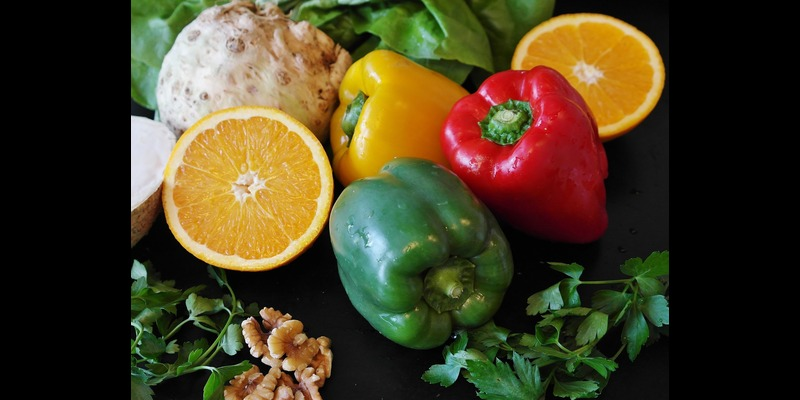
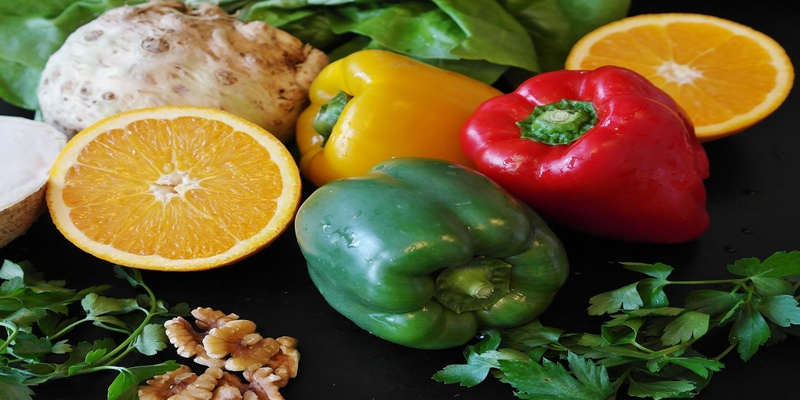
updated style.css and added new version of paprika-4.jpg ,pepper-1.jpg images

diff --git a/css/style.css b/css/style.css
@@ -1,120 +1,120 @@
-*{
-    margin: 0;
-    padding: 0;
-    box-sizing: border-box;
+* {
+  margin: 0;
+  padding: 0;
+  box-sizing: border-box;
 }
 
-body{
-    background-color: rgb(185, 248, 248);
+body {
+  background-color: rgb(185, 248, 248);
 }
 
-#slider{
-    width: 800px;
-    height: 400px;
-    margin: 30px auto;
-    border-radius: 10px;
-    box-shadow: 0 15px 25px -10px rgb(115, 115, 115);
-    background-size: cover;
-    background-position: center;
-    transition: .2s;
-    background-image: url(../images/1.jpg);
-    display: flex;
-    justify-content: center;
-    align-items: center;
-    position: relative;
-    overflow: hidden;
-    margin-top: 100px;
+#slider {
+  width: 800px;
+  height: 400px;
+  margin: 30px auto;
+  border-radius: 10px;
+  box-shadow: 0 15px 25px -10px rgb(115, 115, 115);
+  background-size: cover;
+  background-position: center;
+  transition: 0.2s;
+  background-image: url(../images/1.jpg);
+  display: flex;
+  justify-content: center;
+  align-items: center;
+  position: relative;
+  overflow: hidden;
+  margin-top: 100px;
 }
 
-.arrows{
-    width: 90%;
-    display: flex;
-    justify-content: space-between;
+.arrows {
+  width: 90%;
+  display: flex;
+  justify-content: space-between;
 }
 
-.arrows i{
-    width: 40px;
-    height: 40px;
-    background-color: rgba(0, 0, 0, 0.6);
-    border-radius: 50%;
-    display: flex;
-    justify-content: center;
-    align-items: center;
-    color: #eee;
-    font-size: 25px;
-    transition: .3s;
-    cursor: pointer;
+.arrows i {
+  width: 40px;
+  height: 40px;
+  background-color: rgba(0, 0, 0, 0.6);
+  border-radius: 50%;
+  display: flex;
+  justify-content: center;
+  align-items: center;
+  color: #eee;
+  font-size: 25px;
+  transition: 0.3s;
+  cursor: pointer;
 }
 
-.arrows i:hover{
-    background-color: #000;
+.arrows i:hover {
+  background-color: #000;
 }
 
-#order{
-    position: absolute;
-    top: 0;
-    right: 0;
-    background-color: rgba(0, 0, 0, 0.639);
-    color: #fff;
-    border-bottom-left-radius: 10px;
-    font-size: 22px;
-    padding: 10px 25px;
-    letter-spacing: 1px;
+#order {
+  position: absolute;
+  top: 0;
+  right: 0;
+  background-color: rgba(0, 0, 0, 0.639);
+  color: #fff;
+  border-bottom-left-radius: 10px;
+  font-size: 22px;
+  padding: 10px 25px;
+  letter-spacing: 1px;
 }
 
-#dots{
-    width: 200px;
-    position: absolute;
-    bottom: 20px;
-    left: calc(50% - 100px);
-    list-style: none;
-    display: flex;
-    justify-content: center;
-    column-gap: 20px;
+#dots {
+  width: 200px;
+  position: absolute;
+  bottom: 20px;
+  left: calc(50% - 100px);
+  list-style: none;
+  display: flex;
+  justify-content: center;
+  column-gap: 20px;
 }
 
-#dots li{
-    width: 20px;
-    height: 20px;
-    border-radius: 50%;
-    background-color: rgba(255, 255, 255, 0.68);
-    cursor: pointer;
-    transition: .3s;
+#dots li {
+  width: 20px;
+  height: 20px;
+  border-radius: 50%;
+  background-color: rgba(255, 255, 255, 0.68);
+  cursor: pointer;
+  transition: 0.3s;
 }
 
-#dots li:hover{
-    background-color: #fff;
+#dots li:hover {
+  background-color: #fff;
 }
 
-.activeDot{
-    background-color: #fff !important;
-    transform: scale(1.05) !important;
-    box-shadow: 0 0 5px #fff;
+.activeDot {
+  background-color: #fff !important;
+  transform: scale(1.05) !important;
+  box-shadow: 0 0 5px #fff;
 }
 
 /************************************************************/
 
-#items{
-    width: 800px;
-    margin: 0 auto;
-    display: flex;
-    justify-content: space-between;
+#items {
+  width: 800px;
+  margin: 0 auto;
+  display: flex;
+  justify-content: space-between;
 }
 
-#items img{
-    width: 180px;
-    border-radius: 5px;
-    box-shadow: 0 15px 20px -10px #ccc;
-    transition: .3s;
-    cursor: pointer;
+#items img {
+  width: 180px;
+  border-radius: 5px;
+  box-shadow: 0 15px 20px -10px #ccc;
+  transition: 0.3s;
+  cursor: pointer;
 }
 
-#items img:hover{
-    transform: scale(1.04) translateY(-5px);
-    box-shadow: 0 15px 25px -10px rgb(84, 84, 84);
+#items img:hover {
+  transform: scale(1.04) translateY(-5px);
+  box-shadow: 0 15px 25px -10px rgb(84, 84, 84);
 }
 
-.active{
-    transform: scale(1.04) translateY(-5px) !important;
-    box-shadow: 0 15px 25px -10px rgb(84, 84, 84) !important;
+.active {
+  transform: scale(1.04) translateY(-5px) !important;
+  box-shadow: 0 15px 25px -10px rgb(84, 84, 84) !important;
 }
